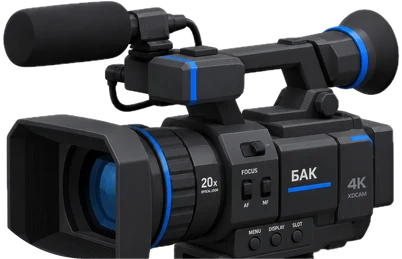
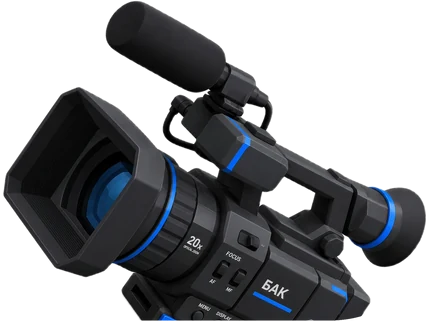
«Пилюли»: камера наклонена вверх, бейдж крупнее, стекло заметнее
- камера в «СМИ о нас» повёрнута объективом вверх на 35° и сильнее
  выступает над «пилюлей»
- бейдж в «Событиях» увеличен: карточка выше «пилюли», надпись читается
- у стеклянных «пилюль» (кубок, камера, бейдж) общий рецепт стекла:
  светлая кромка, блик сверху, тень снизу и мягкая цветная тень под «пилюлей»

diff --git a/assets/css/style.css b/assets/css/style.css
@@ -69,8 +69,11 @@ h2.t,h1.t,h3.t{font-size:clamp(32px,3.9vw,56px);font-weight:500;line-height:1.04
 /* «Доказанная польза»: рука и шарик FIRST Global */
 .p-proof{width:1.93em;margin-top:.62em;background-image:url(../img/pill-ball-bg.webp)}
 .p-proof:after{left:12.5%;top:-65.51%;width:86.73%;height:165.84%;background-image:url(../img/pill-ball.webp)}
-/* «Наши достижения»: кубок в золотистой «стеклянной» «пилюле» – светлый блик сверху, тень снизу */
-.p-win{width:1.76em;background:linear-gradient(160deg,#fbeab8 0%,#f1cf83 46%,#e5b860 100%);box-shadow:inset 0 0 0 1px rgba(255,255,255,.6),inset 0 .09em .14em rgba(255,255,255,.65),inset 0 -.1em .16em rgba(176,120,28,.26)}
+/* «Стеклянные» «пилюли» (кубок, камера, бейдж): цветное стекло – градиент --g1…--g3, светлая кромка и блик сверху (:before), тень снизу и под «пилюлей» (--gs) */
+.p-win,.p-media,.p-ev{background:linear-gradient(165deg,var(--g1) 0%,var(--g2) 48%,var(--g3) 100%);box-shadow:inset 0 0 0 1px rgba(255,255,255,.7),inset 0 .1em .16em rgba(255,255,255,.8),inset 0 -.13em .2em var(--gs),0 .16em .34em -.12em var(--gs)}
+.p-win:before,.p-media:before,.p-ev:before{content:"";position:absolute;left:5%;right:5%;top:5%;height:42%;border-radius:999px;background:linear-gradient(rgba(255,255,255,.78),rgba(255,255,255,.06))}
+/* «Наши достижения»: кубок в золотистом стекле */
+.p-win{width:1.76em;--g1:#fdf0c8;--g2:#f1cf83;--g3:#dfae52;--gs:rgba(176,120,28,.42)}
 .p-win:after{left:8.16%;top:-157.95%;width:83.68%;height:258.27%;background-image:url(../img/pill-cup.webp)}
 #winners .sh{margin-top:104px} /* кубок выступает над заголовком почти на полторы строки – над разделом больше воздуха, метки над заголовком нет */
 @media(max-width:760px){#winners .sh{margin-top:84px}}
@@ -80,15 +83,15 @@ h2.t,h1.t,h3.t{font-size:clamp(32px,3.9vw,56px);font-weight:500;line-height:1.04
 /* «Ценности»: три плитки с иконками ценностей – один SVG-файл: «пилюля» и предмет над ней (верхние 60% картинки – над «пилюлей») */
 .p-val{margin-top:.5em;background:none}
 .p-val:after{left:0;top:-60%;width:100%;height:160%;background-image:url(../img/pill-val.svg)}
-/* «СМИ о нас»: видеокамера в голубоватой «стеклянной» «пилюле» */
-.p-media{margin-top:.2em;background:linear-gradient(160deg,#deebff 0%,#a8c9fa 46%,#74a6ee 100%);box-shadow:inset 0 0 0 1px rgba(255,255,255,.6),inset 0 .09em .14em rgba(255,255,255,.7),inset 0 -.1em .16em rgba(28,84,176,.26)}
-.p-media:after{left:6.3%;top:-12.34%;width:87.39%;height:112.61%;background-image:url(../img/pill-cam.webp)}
+/* «СМИ о нас»: видеокамера (объектив поднят на 35°) в голубом стекле */
+.p-media{margin-top:.38em;--g1:#e6f0ff;--g2:#a9cbfb;--g3:#6c9fec;--gs:rgba(28,84,176,.42)}
+.p-media:after{left:3.26%;top:-39.27%;width:93.26%;height:139.57%;background-image:url(../img/pill-cam.webp)}
 /* «Программы»: ребята с роботом FTC на фоне пит-зоны */
 .p-prog{width:1.98em;margin-top:.1em;background-image:url(../img/pill-prog-bg.webp)}
 .p-prog:after{left:-3.14%;top:-12.05%;width:100.77%;height:112.12%;background-image:url(../img/pill-prog.webp)}
-/* «События»: бейдж участника в светло-фиолетовой «стеклянной» «пилюле» */
-.p-ev{margin-top:.3em;background:linear-gradient(160deg,#f3eaff 0%,#d6c1f8 46%,#b99aee 100%);box-shadow:inset 0 0 0 1px rgba(255,255,255,.6),inset 0 .09em .14em rgba(255,255,255,.7),inset 0 -.1em .16em rgba(92,44,170,.26)}
-.p-ev:after{left:9.57%;top:-32.4%;width:81.09%;height:132.61%;background-image:url(../img/pill-badge.webp)}
+/* «События»: бейдж участника в светло-фиолетовом стекле. Лента шире «пилюли», поэтому поля по бокам больше обычных */
+.p-ev{margin:.95em 0.33em 0 0.47em;--g1:#f5edff;--g2:#d3bcf8;--g3:#ad8ae8;--gs:rgba(92,44,170,.42)}
+.p-ev:after{left:-15.22%;top:-104.92%;width:130.5%;height:205%;background-image:url(../img/pill-badge.webp)}
 .sub{color:var(--mu);font-size:16px;line-height:1.6;max-width:440px}
 /* шапка раздела: слева метка и заголовок, справа короткое пояснение; .nav – справа место под стрелки ленты */
 .sh{display:flex;flex-wrap:wrap;align-items:flex-end;justify-content:space-between;gap:16px 48px;margin:72px 0 28px}

diff --git a/index.html b/index.html
@@ -21,7 +21,7 @@
 <script src="assets/js/fresh.js" defer></script>
 <link rel="preload" as="image" href="assets/img/hero-team-1500.webp" media="(min-width: 761px)" fetchpriority="high">
 <link rel="preload" as="image" href="assets/img/hero-team-800.webp" media="(max-width: 760px)" fetchpriority="high">
-<link rel="stylesheet" href="assets/css/style.css?v=20261120-1000">
+<link rel="stylesheet" href="assets/css/style.css?v=20261120-1300">
 </head>
 <body>
 

diff --git a/news.html b/news.html
@@ -18,7 +18,7 @@
 <link rel="icon" type="image/png" sizes="192x192" href="assets/img/icon-192.png">
 <link rel="apple-touch-icon" href="assets/img/apple-touch-icon.png">
 <script src="assets/js/fresh.js" defer></script>
-<link rel="stylesheet" href="assets/css/style.css?v=20261120-1000">
+<link rel="stylesheet" href="assets/css/style.css?v=20261120-1300">
 </head>
 <body>
 
